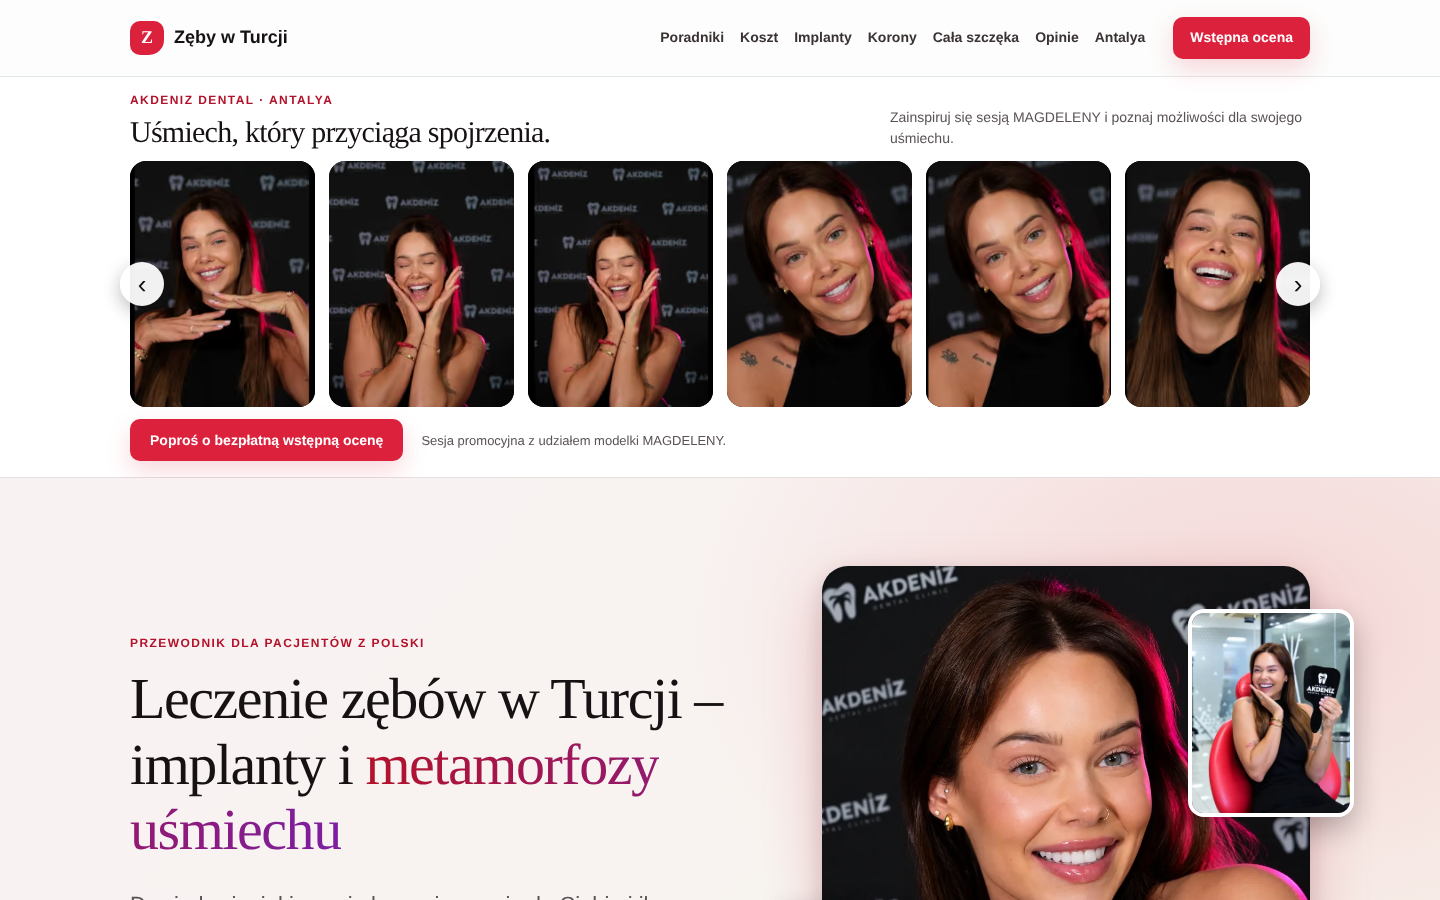
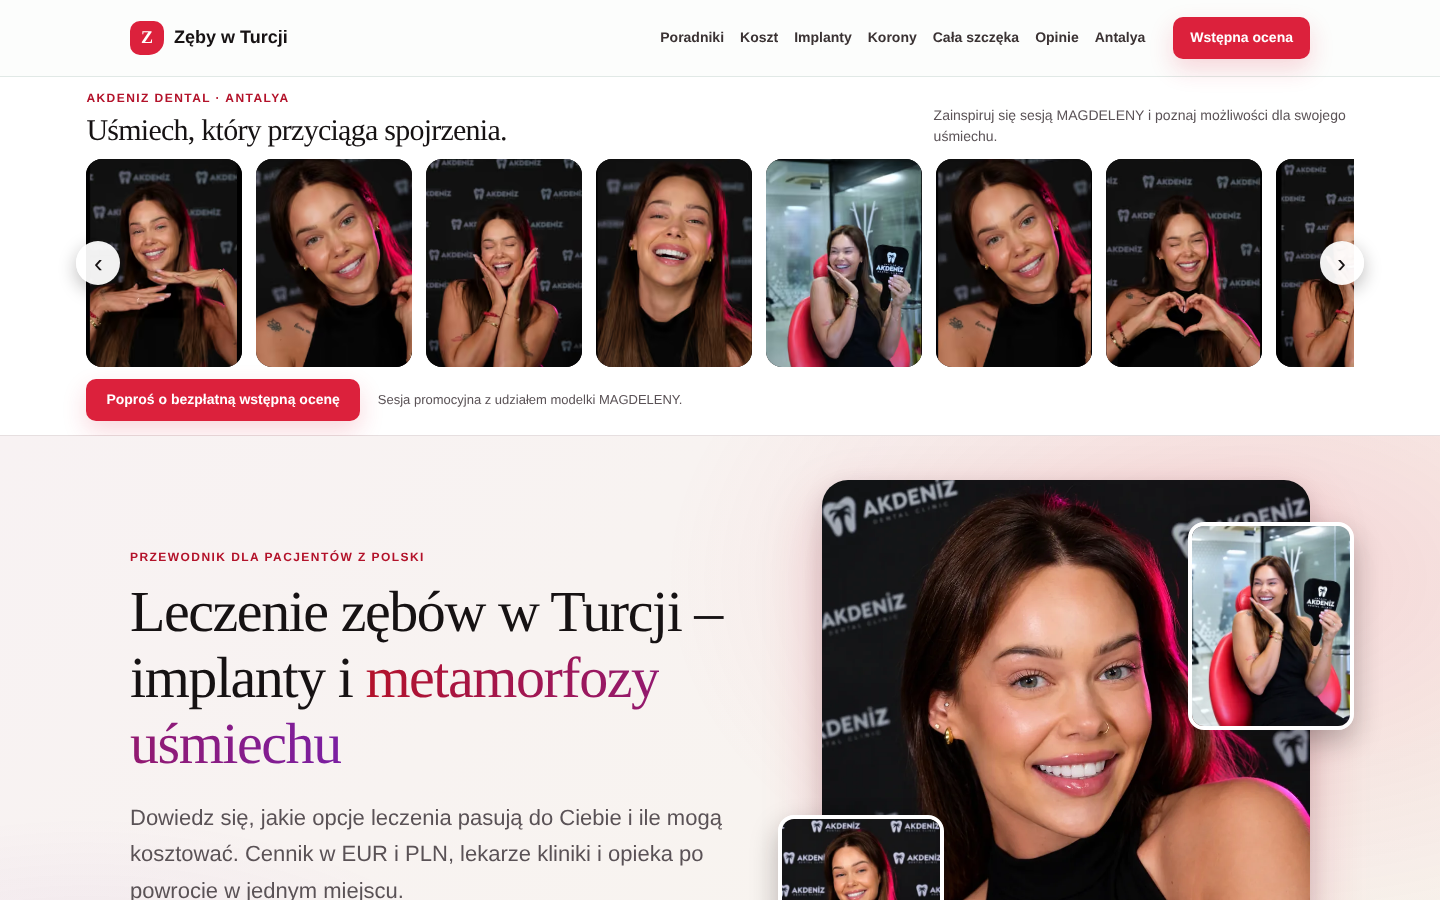
Gallery: wider strip, shorter cards, tighter hero spacing, varied photo order
Gallery container 88% up to 1600 px on desktop (16 px gutters on mobile),
cards 156x208 (about 16% shorter), hero top padding halved, and the near-twin
poses (02/03 and 04/05) moved apart. Text sections keep their width.

Claude-Session: https://claude.ai/code/session_01Fz7L1r5Te4mkGcCRwhDTy6

diff --git a/app/globals.css b/app/globals.css
@@ -25,7 +25,7 @@ button,input,select,textarea { font:inherit; }
 .mobile-menu { display:none; margin-left:auto; }
 .mobile-assessment-bar { display:none; }
 .home-hero,.page-hero { background:linear-gradient(135deg,#f8f2f3 0%,#f8f5ed 100%); border-bottom:1px solid var(--line); }
-.home-hero { padding:88px 0 80px; }
+.home-hero { padding:44px 0 72px; }
 .hero-grid { display:grid; grid-template-columns:1.12fr .88fr; gap:70px; align-items:center; }
 .eyebrow,.mini-label { margin:0 0 12px; color:var(--green-dark); font-size:12px; font-weight:900; letter-spacing:.12em; text-transform:uppercase; }
 h1,h2,h3 { margin-top:0; line-height:1.13; letter-spacing:-.025em; }
@@ -693,7 +693,8 @@ input:focus,select:focus,textarea:focus { outline:3px solid rgba(220,33,60,.16);
 @media (max-width:760px) { .home-trust-list { grid-template-columns:1fr 1fr; gap:14px; } .process-steps { grid-template-columns:1fr; } .home-review-profiles { margin-top:-18px; padding-bottom:26px; } .home-lead-section { padding:44px 0; } .home-trust-strip>.shell { padding-block:16px; } .home-trust-list span { display:none; } }
 
 /* MAGDELENA gallery: one horizontal strip of vertical photos above the hero. */
-.home-gallery { padding:14px 0 16px; background:white; border-bottom:1px solid var(--line); }
+.home-gallery-inner { width:min(1600px,88%); margin-inline:auto; }
+.home-gallery { padding:12px 0 14px; background:white; border-bottom:1px solid var(--line); }
 .home-gallery-head { display:flex; align-items:flex-end; justify-content:space-between; gap:12px 32px; margin-bottom:10px; }
 .home-gallery-head .eyebrow { margin-bottom:4px; }
 .home-gallery-head h2 { margin:0; font-size:clamp(22px,2.6vw,30px); }
@@ -702,7 +703,7 @@ input:focus,select:focus,textarea:focus { outline:3px solid rgba(220,33,60,.16);
 .home-gallery-track { display:flex; gap:14px; margin:0; padding:2px 0; list-style:none; overflow-x:auto; overscroll-behavior-x:contain; scroll-snap-type:x mandatory; scrollbar-width:none; -webkit-overflow-scrolling:touch; }
 .home-gallery-track::-webkit-scrollbar { display:none; }
 .home-gallery-track:focus-visible { outline:3px solid var(--green-dark); outline-offset:4px; border-radius:14px; }
-.home-gallery-track li { flex:0 0 calc((100% - 5 * 14px) / 6); aspect-ratio:3/4; max-height:300px; min-width:0; scroll-snap-align:start; overflow:hidden; border-radius:16px; background:var(--ink); }
+.home-gallery-track li { flex:0 0 156px; height:208px; min-width:0; scroll-snap-align:start; overflow:hidden; border-radius:16px; background:var(--ink); }
 .home-gallery-track img { display:block; width:100%; height:100%; object-fit:cover; }
 .home-gallery-arrow { position:absolute; top:50%; z-index:2; display:grid; place-items:center; width:44px; height:44px; margin-top:-22px; border:0; border-radius:50%; background:rgba(255,255,255,.94); color:var(--ink); box-shadow:0 6px 18px rgba(22,18,19,.28); font-size:26px; line-height:1; cursor:pointer; }
 .home-gallery-arrow:hover { background:white; color:var(--green-dark); }
@@ -712,8 +713,8 @@ input:focus,select:focus,textarea:focus { outline:3px solid rgba(220,33,60,.16);
 .home-gallery-foot { display:flex; align-items:center; gap:12px 18px; margin-top:10px; flex-wrap:wrap; }
 .home-gallery-foot .button { min-height:42px; padding:0 20px; font-size:14px; }
 .home-gallery-foot p { margin:0; color:var(--muted); font-size:13px; }
-@media (min-width:761px) and (max-width:1000px) { .home-gallery-track li { flex-basis:calc((100% - 3 * 14px) / 4.4); } }
 @media (max-width:760px) {
+  .home-gallery-inner { width:calc(100% - 32px); }
   .home-gallery { padding:12px 0 14px; }
   .home-gallery-head { display:block; margin-bottom:10px; }
   .home-gallery-head h2 { font-size:22px; line-height:1.15; }

diff --git a/lib/magdelena-gallery.ts b/lib/magdelena-gallery.ts
@@ -1,15 +1,15 @@
-/** Promotional photos of the model MAGDELENA (operator-supplied; shown as brand atmosphere, never as patient results). Order follows the supplied list; magdelena-09 is not used because a second person is in that frame. */
+/** Promotional photos of the model MAGDELENA (operator-supplied; shown as brand atmosphere, never as patient results). Order follows the supplied list; magdelena-09 is not used because a second person is in that frame. The order places different poses next to each other (02/03 and 04/05 are near twins and are kept apart). */
 export type GalleryPhoto = { n: string; alt: string; position: string };
 
 export const magdelenaPhotos: GalleryPhoto[] = [
   { n: "01", alt: "MAGDELENA, modelka Akdeniz Dental, uśmiecha się na tle ścianki z logo kliniki", position: "50% 22%" },
-  { n: "02", alt: "MAGDELENA śmieje się z dłońmi przy twarzy na tle logo Akdeniz Dental", position: "50% 28%" },
-  { n: "03", alt: "MAGDELENA z zamkniętymi oczami i szerokim uśmiechem, dłonie przy policzkach", position: "50% 28%" },
   { n: "04", alt: "Zbliżenie na uśmiech MAGDELENY, modelki Akdeniz Dental", position: "50% 30%" },
-  { n: "05", alt: "MAGDELENA z lekkim uśmiechem, portret na ciemnym tle z logo kliniki", position: "50% 30%" },
+  { n: "02", alt: "MAGDELENA śmieje się z dłońmi przy twarzy na tle logo Akdeniz Dental", position: "50% 28%" },
   { n: "06", alt: "MAGDELENA śmieje się, zbliżenie na uśmiech", position: "50% 32%" },
-  { n: "07", alt: "MAGDELENA puszcza oko i układa dłonie w kształt serca", position: "50% 28%" },
   { n: "08", alt: "MAGDELENA w fotelu w klinice Akdeniz Dental, z lusterkiem z logo kliniki", position: "50% 32%" },
+  { n: "05", alt: "MAGDELENA z lekkim uśmiechem, portret na ciemnym tle z logo kliniki", position: "50% 30%" },
+  { n: "07", alt: "MAGDELENA puszcza oko i układa dłonie w kształt serca", position: "50% 28%" },
+  { n: "03", alt: "MAGDELENA z zamkniętymi oczami i szerokim uśmiechem, dłonie przy policzkach", position: "50% 28%" },
   { n: "10", alt: "MAGDELENA z wesołym wyrazem twarzy, portret na tle logo Akdeniz Dental", position: "50% 32%" },
   { n: "11", alt: "MAGDELENA uśmiecha się do obiektywu, portret promocyjny Akdeniz Dental", position: "50% 30%" }
 ];

diff --git a/components/home-magdelena-gallery.tsx b/components/home-magdelena-gallery.tsx
@@ -18,7 +18,7 @@ export function HomeMagdelenaGallery() {
     if (event.key === "ArrowLeft") { event.preventDefault(); move(-1); }
   };
   return <section className="home-gallery" aria-labelledby="home-gallery-title">
-    <div className="shell">
+    <div className="home-gallery-inner">
       <div className="home-gallery-head">
         <div><p className="eyebrow">Akdeniz Dental · Antalya</p><h2 id="home-gallery-title">Uśmiech, który przyciąga spojrzenia.</h2></div>
         <p>Zainspiruj się sesją MAGDELENY i poznaj możliwości dla swojego uśmiechu.</p>

diff --git a/docs/magdelena-gallery.md b/docs/magdelena-gallery.md
@@ -25,4 +25,4 @@ Total of the 10 used photos: 24738 KB original, 381 KB masters.
 ## Open points
 - `magdelena-09` (12.41.04) shows another person next to the model. It is not in the gallery; add it only if that person has agreed to appear.
 - The original PNGs were moved out of `public/` to `assets-src/2026-10-17/`; they are no longer reachable by URL.
-- Desktop gallery adds about 400 px above the hero; mobile about 380 px.
+- Desktop gallery adds about 360 px above the hero (cards 156×208, container 88% up to 1600 px); mobile about 380 px.
